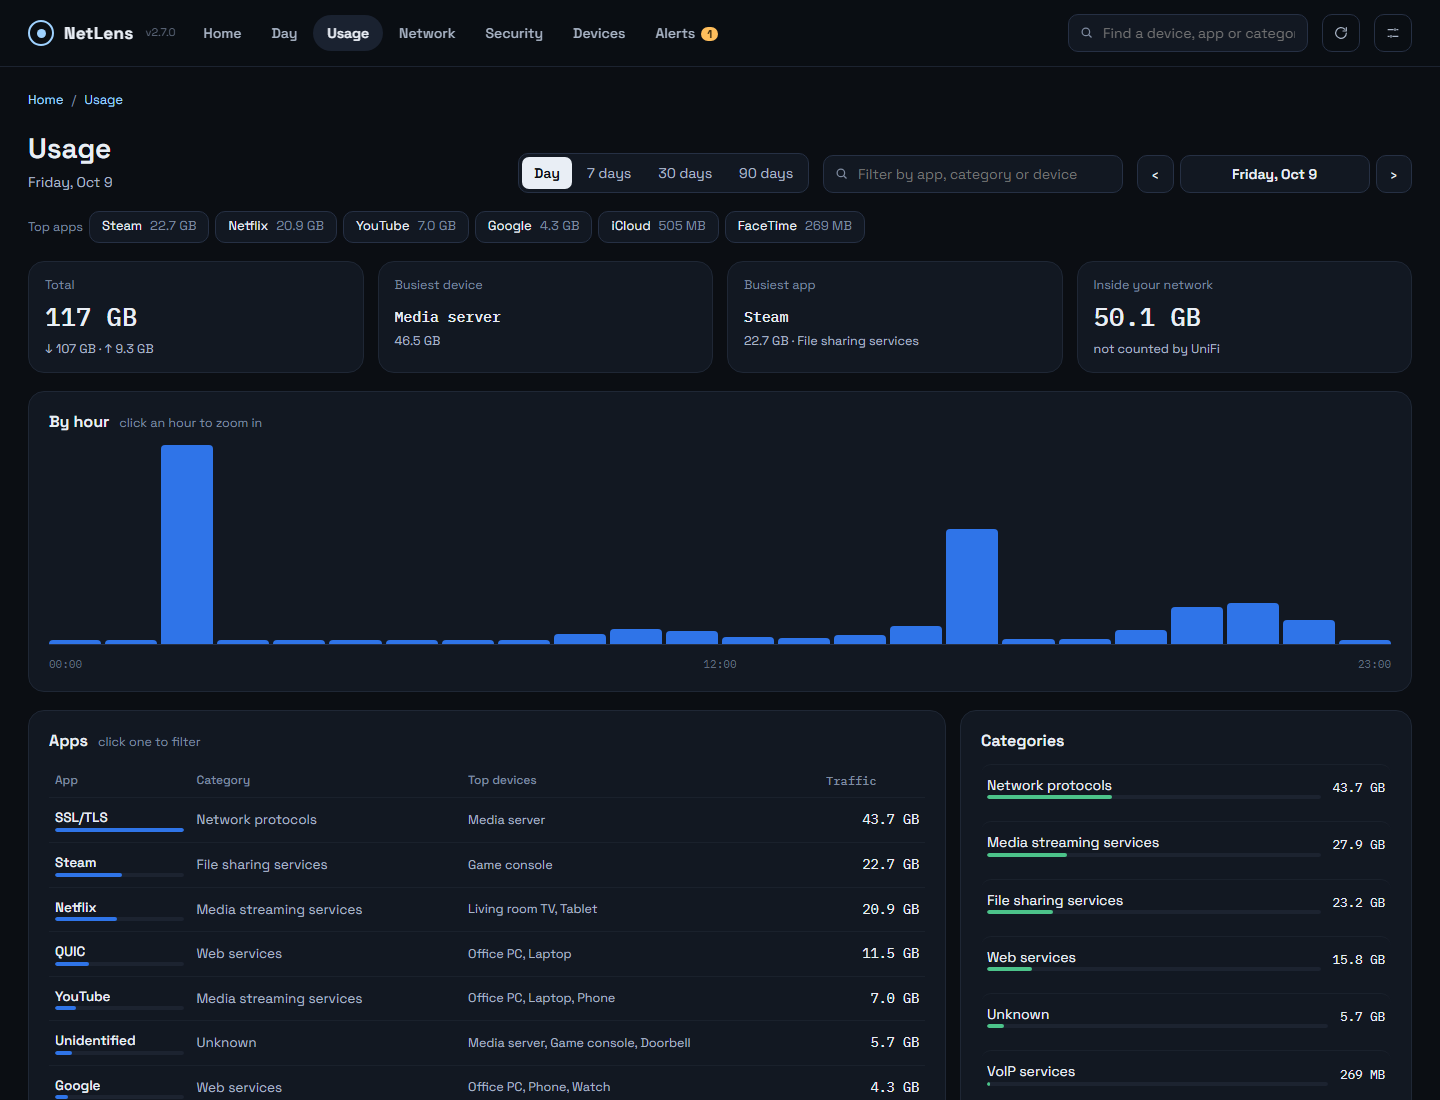
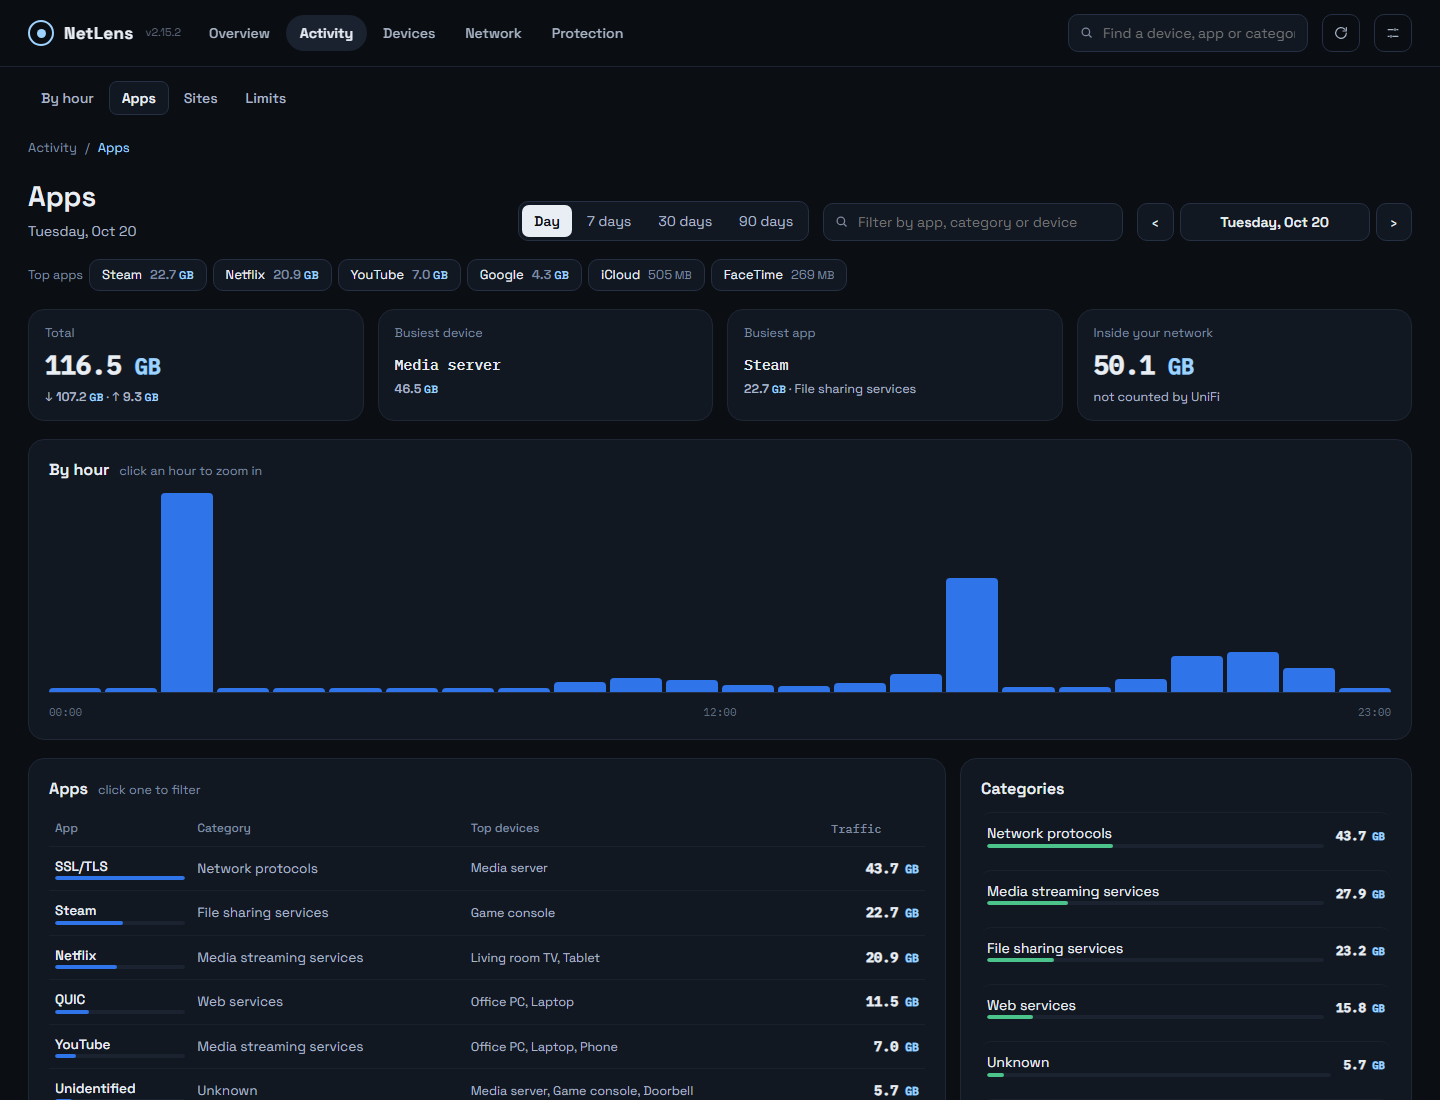
Sync from development (c18fda7)

diff --git a/README.md b/README.md
@@ -15,12 +15,12 @@ which UniFi itself deletes after a day or a week.
 
 | | |
 | --- | --- |
-| ![Home — today's findings](assets/screenshots/home.png) | ![Day — every device by hour](assets/screenshots/day.png) |
+| ![Overview — findings and the internet line](assets/screenshots/home.png) | ![Day — every device by hour](assets/screenshots/day.png) |
 | **Overview** — findings in plain language, limits on top | **Activity › By hour** — every device by hour |
 | ![Usage — apps, categories and top apps](assets/screenshots/usage.png) | ![Device — traffic, signal and events](assets/screenshots/device.png) |
 | **Activity › Apps** — top apps, search by app, category or device | **Device** — its day, apps, sessions and events |
-| ![Network — live map with access-point detail](assets/screenshots/network.png) | ![Security — blocked intrusion with full detail](assets/screenshots/security.png) |
-| **Network** — live map, access point selected | **Protection** — blocked intrusion with its full record |
+| ![Network — live map with access-point detail](assets/screenshots/network.png) | ![Protection — blocks and intrusions with filters](assets/screenshots/security.png) |
+| **Network** — live map: internet line, VMs and containers under their host, access point selected | **Protection** — every block as one incident, with filters; ads and trackers on their own tab |
 | ![Devices — new devices, maker and where they connect](assets/screenshots/devices.png) | ![Alerts — daily limits per app and device](assets/screenshots/alerts.png) |
 | **Devices** — new devices, maker, switch port or access point, rename | **Activity › Limits** — daily limits per app and device |
 | ![Sites — every site each device connected to, by category](assets/screenshots/sites.png) | |
@@ -31,12 +31,15 @@ which UniFi itself deletes after a day or a week.
 ## Features
 
 - **Overview** — what happened today, in plain language: the day's big transfers, devices on weak
-  Wi-Fi or slow wired links, blocked intrusions and firewall hits, repeat offenders, new
-  devices, equipment problems — each linking to the details.
+  Wi-Fi or slow wired links, failed Wi-Fi joins, blocked intrusions and firewall hits, new
+  devices, equipment problems, a changed public IP — each linking to the details. Right now:
+  provider, public IP, % up and how much of the line is in use.
 - **Activity › By hour** — every device as a row, the day's hours as columns: when each device was busy, when it
   roamed or reconnected, when something was blocked. Click any hour to see it in 5-minute steps.
-- **Network** — a live map: internet → gateway → switches and access points → devices. Click an
-  access point for its radios and clients, a switch for its ports (speed, PoE, errors).
+- **Network** — a live map: internet → gateway → switches and access points → devices. Wi-Fi
+  devices show band and signal; virtual machines and containers fold under the server that runs
+  them; a device the switch lost track of stays at its last known port (↺). Click the internet
+  line for its public-IP history, an access point for its radios, a switch for its ports.
 - **Device** — per device: traffic, Wi-Fi signal or wired link speed, apps, sessions, events,
   connection time, online history, CSV export, block / unblock.
 - **Devices** — every device UniFi knows, new ones first: maker, where it connected (switch port
@@ -52,10 +55,11 @@ which UniFi itself deletes after a day or a week.
   browser's secure DNS hides the name, NetLens names the address if it belongs to a watched
   site, from its own hourly lookups.
 - **Activity › Limits** — daily limits on time in use or data for an app or category on a device, e.g.
-  YouTube on the kids' tablet over 2 hours. Flagged on Home and the Alerts tab; watch only.
-- **Protection** — intrusion attempts and firewall blocks with the blocked connection's full
-  record (IPS signature, policy, both ends, traffic); investigate an outside address; hide noisy
-  rules.
+  YouTube on the kids' tablet over 2 hours. Flagged on Overview; watch only.
+- **Protection** — every block as one incident: intrusions (IPS signature, both ends, traffic)
+  and devices stopped by your firewall rules or app blocks, with the rule's name, merged with
+  UniFi's log entry; filters by type, device, site and rule; investigate an outside address;
+  ads and trackers on their own tab.
 - **Activity › Apps** — apps, categories and devices for a day, an hour or up to 90 days; one search box
   for an app, category or device, and the top apps one click away. **Every number on
   a screen comes from one source and adds up**; a built-in audit (`npm run audit`) checks every

diff --git a/DOCKERHUB.md b/DOCKERHUB.md
@@ -15,12 +15,12 @@ Source, issues and full documentation: **https://github.com/GeorgeAL78/netlens**
 
 | | |
 | --- | --- |
-| ![Home — today's findings](https://raw.githubusercontent.com/GeorgeAL78/netlens/main/assets/screenshots/home.png) | ![Day — every device by hour](https://raw.githubusercontent.com/GeorgeAL78/netlens/main/assets/screenshots/day.png) |
+| ![Overview — findings and the internet line](https://raw.githubusercontent.com/GeorgeAL78/netlens/main/assets/screenshots/home.png) | ![Day — every device by hour](https://raw.githubusercontent.com/GeorgeAL78/netlens/main/assets/screenshots/day.png) |
 | **Overview** — findings in plain language, limits on top | **Activity › By hour** — every device by hour |
 | ![Usage — apps, categories and top apps](https://raw.githubusercontent.com/GeorgeAL78/netlens/main/assets/screenshots/usage.png) | ![Device — traffic, signal and events](https://raw.githubusercontent.com/GeorgeAL78/netlens/main/assets/screenshots/device.png) |
 | **Activity › Apps** — top apps, search by app, category or device | **Device** — its day, apps, sessions and events |
-| ![Network — live map with access-point detail](https://raw.githubusercontent.com/GeorgeAL78/netlens/main/assets/screenshots/network.png) | ![Security — blocked intrusion with full detail](https://raw.githubusercontent.com/GeorgeAL78/netlens/main/assets/screenshots/security.png) |
-| **Network** — live map, access point selected | **Protection** — blocked intrusion with its full record |
+| ![Network — live map with access-point detail](https://raw.githubusercontent.com/GeorgeAL78/netlens/main/assets/screenshots/network.png) | ![Protection — blocks and intrusions with filters](https://raw.githubusercontent.com/GeorgeAL78/netlens/main/assets/screenshots/security.png) |
+| **Network** — live map: internet line, VMs and containers under their host, access point selected | **Protection** — every block as one incident, with filters; ads and trackers on their own tab |
 | ![Devices — new devices, maker and where they connect](https://raw.githubusercontent.com/GeorgeAL78/netlens/main/assets/screenshots/devices.png) | ![Alerts — daily limits per app and device](https://raw.githubusercontent.com/GeorgeAL78/netlens/main/assets/screenshots/alerts.png) |
 | **Devices** — new devices, maker, switch port or access point, rename | **Activity › Limits** — daily limits per app and device |
 | ![Sites — every site each device connected to, by category](https://raw.githubusercontent.com/GeorgeAL78/netlens/main/assets/screenshots/sites.png) | |
@@ -33,7 +33,7 @@ Source, issues and full documentation: **https://github.com/GeorgeAL78/netlens**
 - **Overview** — today's findings in plain language: big transfers, weak Wi-Fi, slow links, blocked
   threats, new devices, equipment problems.
 - **Activity › By hour** — devices × hours: when each device was busy, roamed or got blocked.
-- **Network** — live map of gateway, switches, access points and devices, with radio and port details.
+- **Network** — live map with Wi-Fi band and signal, VMs and containers under their host, the internet line with public-IP history.
 - **Device** — traffic, signal or link speed, apps, sessions, events, online history, block / unblock.
 - **Devices** — new devices first, with maker and switch port or access point; rename (saved in UniFi);
   offline devices checked on the network every 5 minutes; blocked devices listed with Unblock;
@@ -41,7 +41,7 @@ Source, issues and full documentation: **https://github.com/GeorgeAL78/netlens**
 - **Activity › Sites** — every site each device connected to (30 days), filtered by category; addresses hidden
   by secure DNS named when they belong to a watched site.
 - **Activity › Limits** — daily limits on time or data for an app on a device, flagged on Overview.
-- **Protection** — blocked intrusions and firewall hits with the full connection record.
+- **Protection** — every block as one incident (intrusions, your firewall rules and app blocks), with filters; ads and trackers on their own tab.
 - **Activity › Apps** — apps, categories and devices for a day, an hour or 90 days, one search box for all
   three; every number adds up.
 - Local-network traffic shown separately; missing data marked, never shown as a quiet hour.
